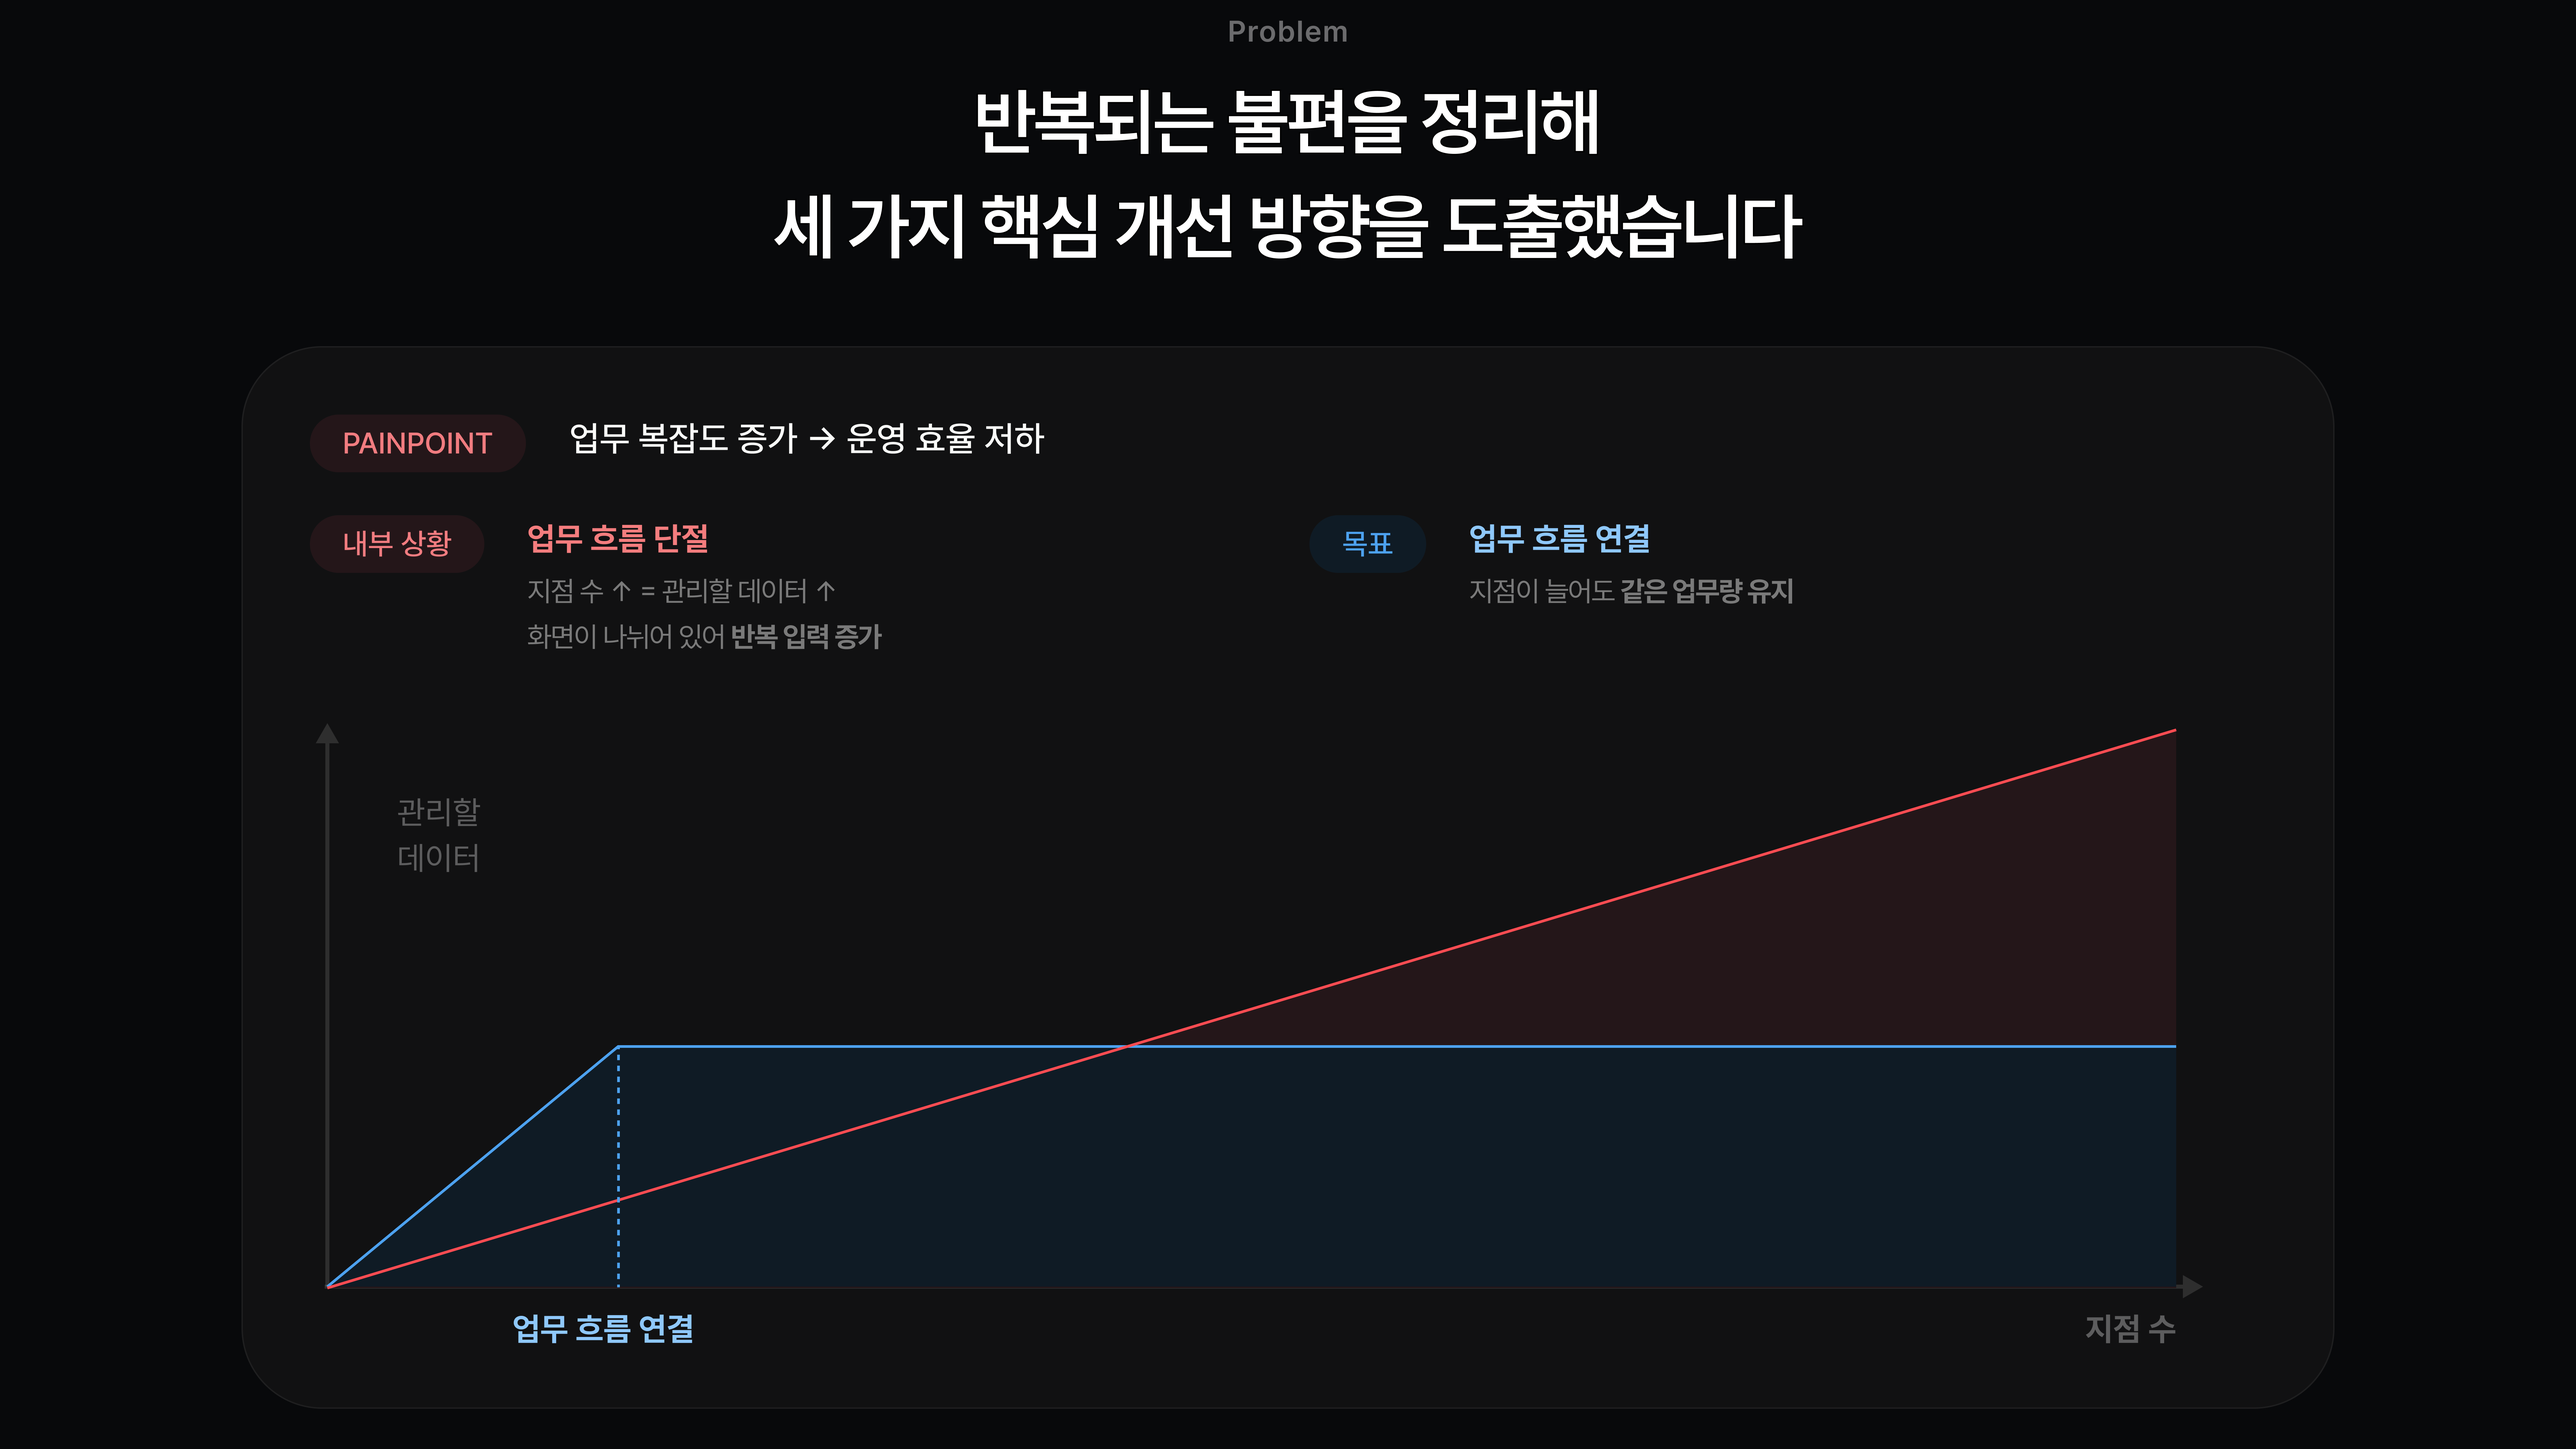
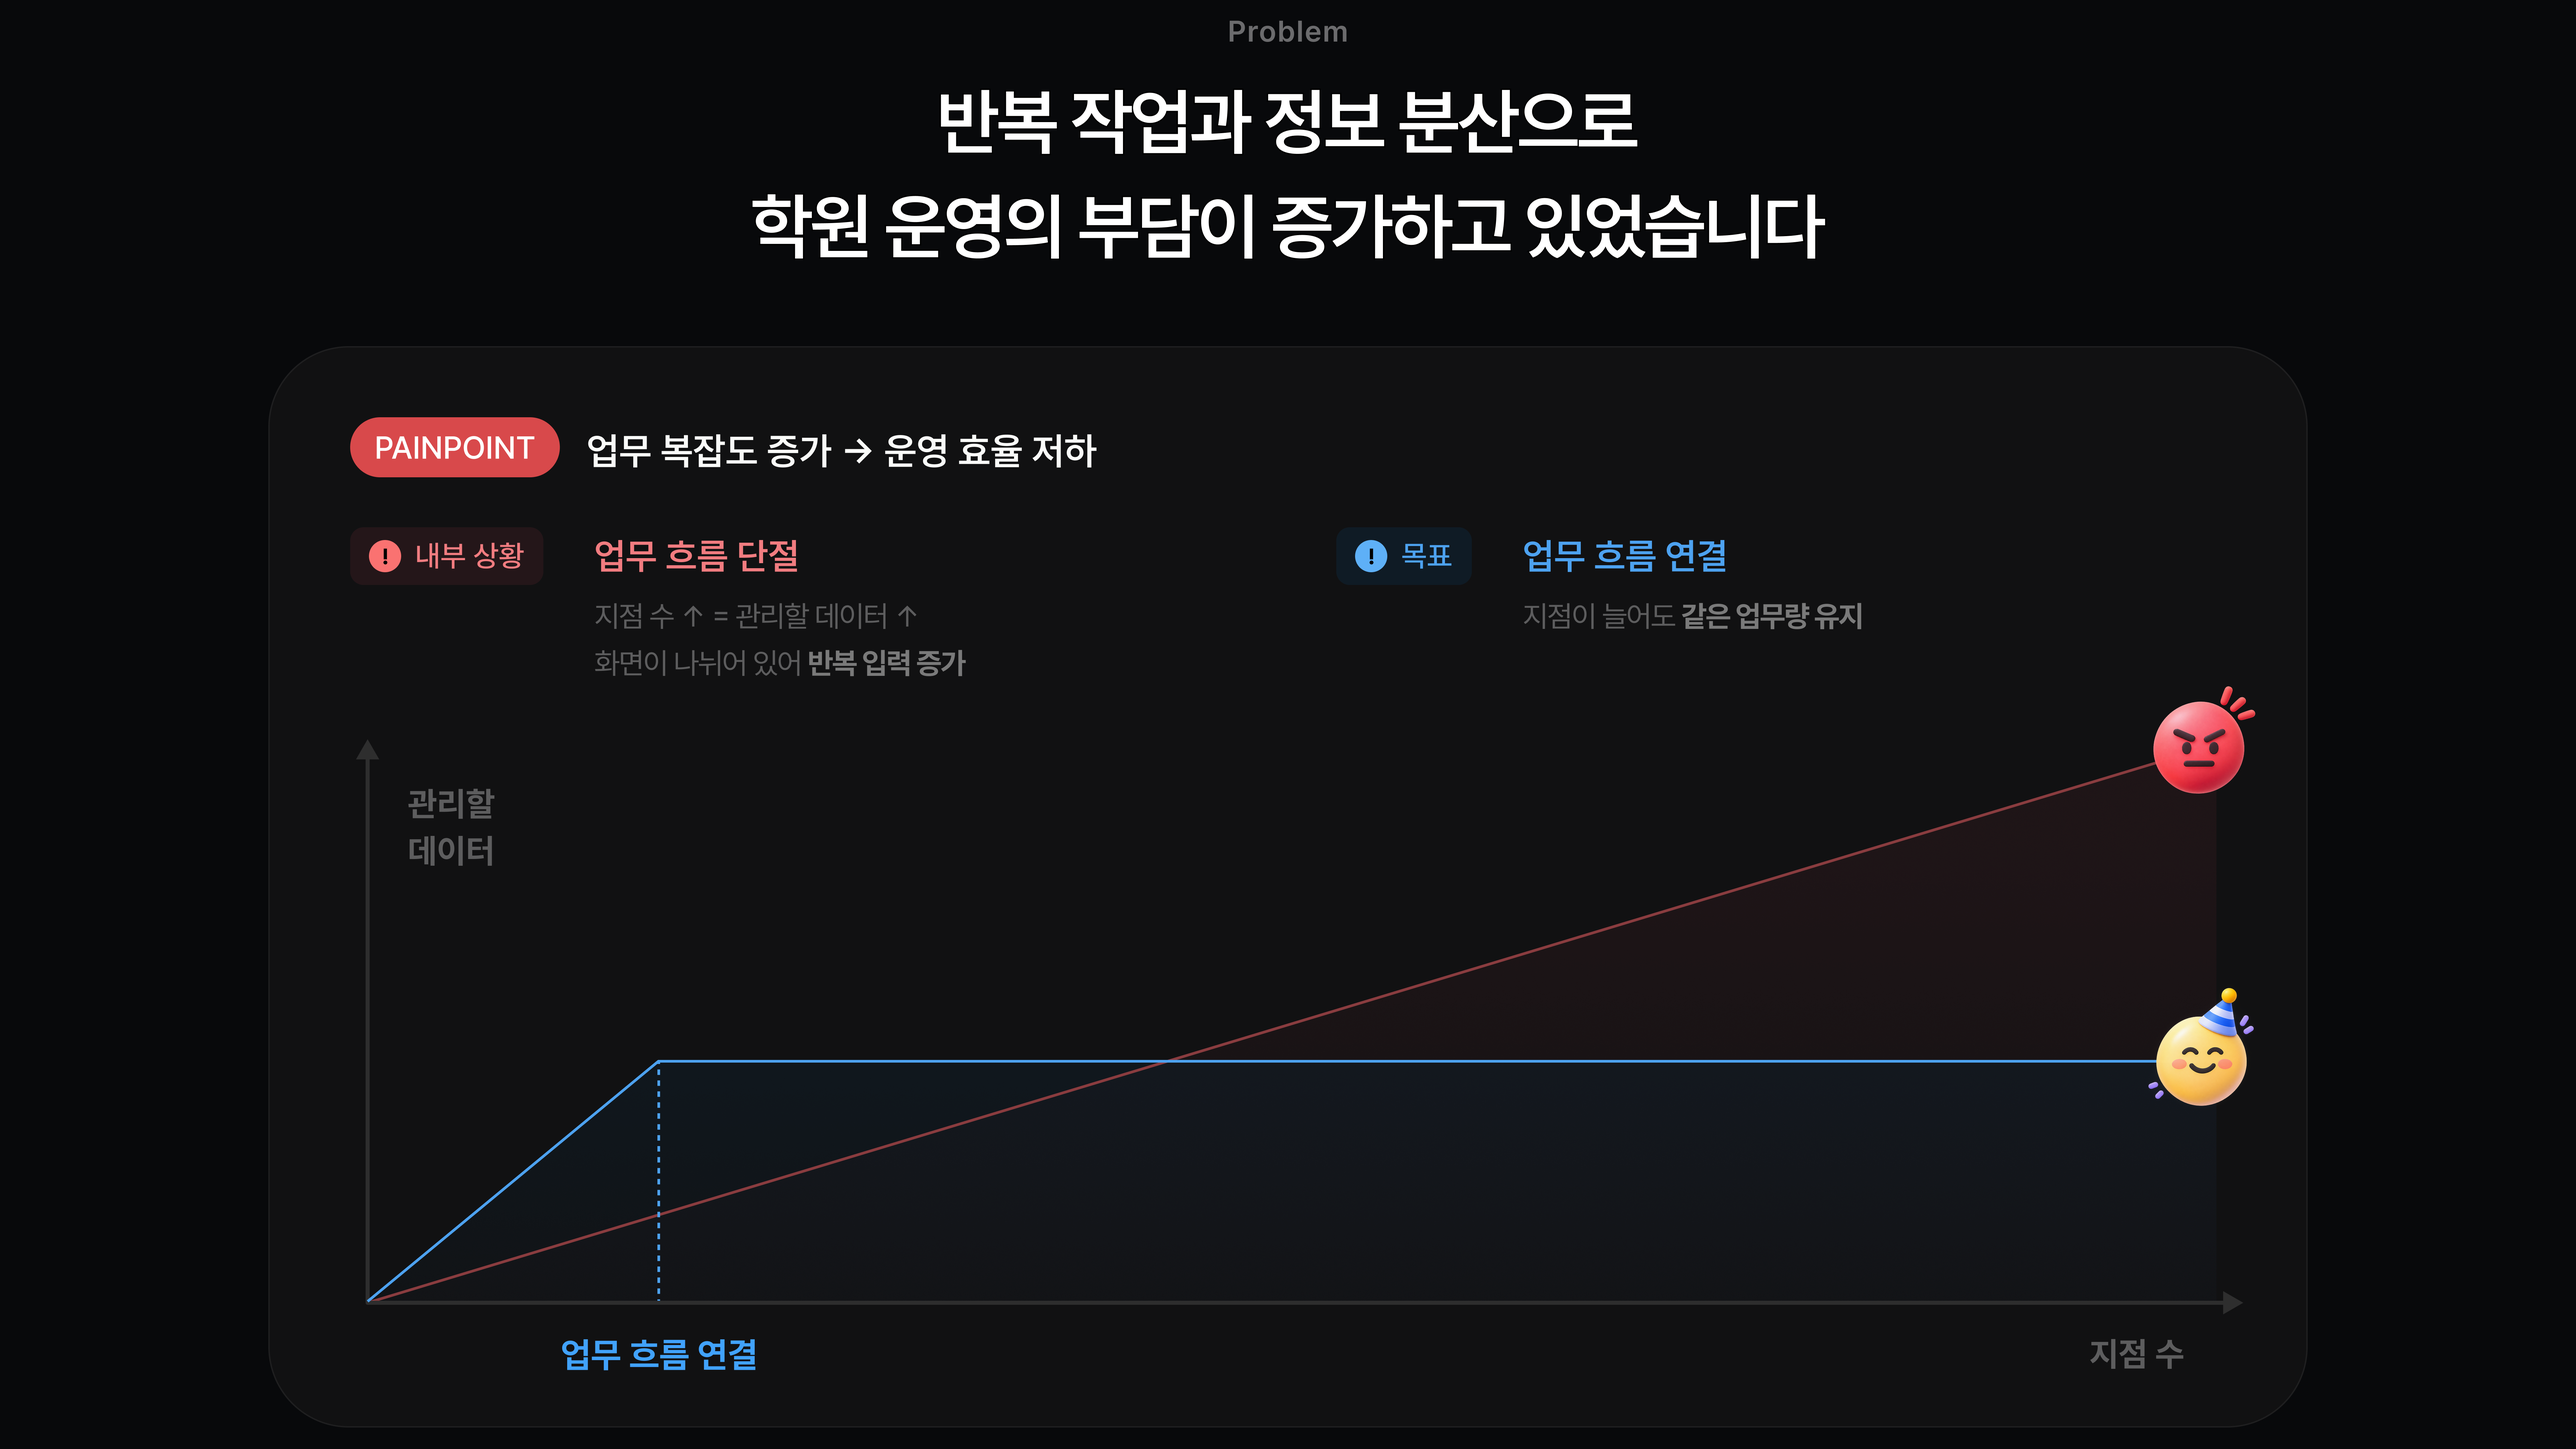
학원 ERP 05번 슬라이드 교체
- 05.png 를 Problem 그래프 구성으로 교체 (7680x4320, 총 24장 그대로)
  04 INSIGHT -> 05 Problem -> 06 Key Findings 로 흐름이 이어지고,
  24장 전체 md5 대조에서 중복 없음을 확인했다.
- ASSET_VERSION 20261126a -> 20261126b

diff --git a/assets/js/main.js b/assets/js/main.js
@@ -70,7 +70,7 @@
      (CSS/JS 의 ?v= 와 같은 역할)
      경로 자체에는 붙이지 않는다 — 확장자 추출이나 존재 확인이 쿼리에
      오염되면 안 되므로, <img src> 에 실을 때만 versioned() 로 감싼다. */
-  var ASSET_VERSION = '20261126a';
+  var ASSET_VERSION = '20261126b';
   function slidePath(key, n, ext) { return 'assets/slides/' + key + '/' + pad(n) + '.' + ext; }
   function versioned(src) { return src + '?v=' + ASSET_VERSION; }
 

diff --git a/index.html b/index.html
@@ -169,6 +169,6 @@
   </div>
 </div>
 
-<script src="assets/js/main.js?v=20261126a"></script>
+<script src="assets/js/main.js?v=20261126b"></script>
 </body>
 </html>
